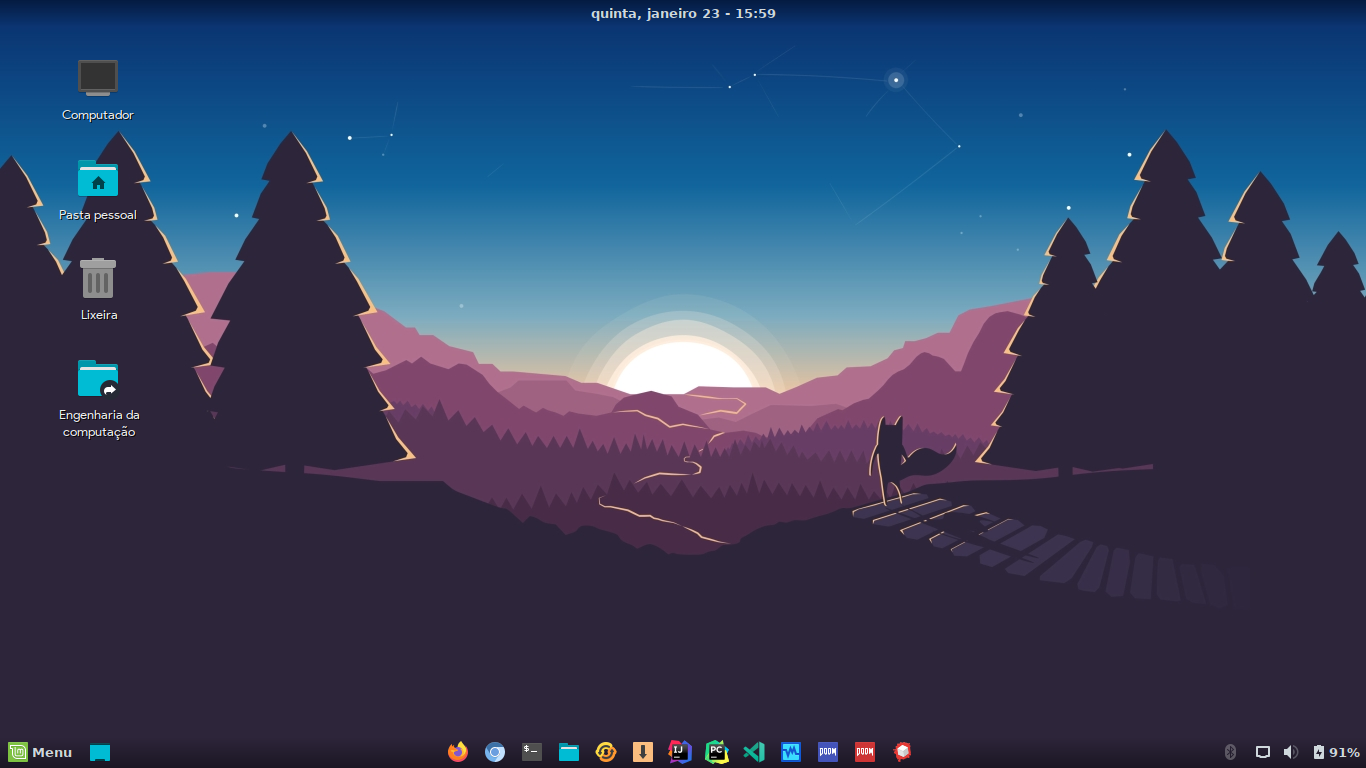
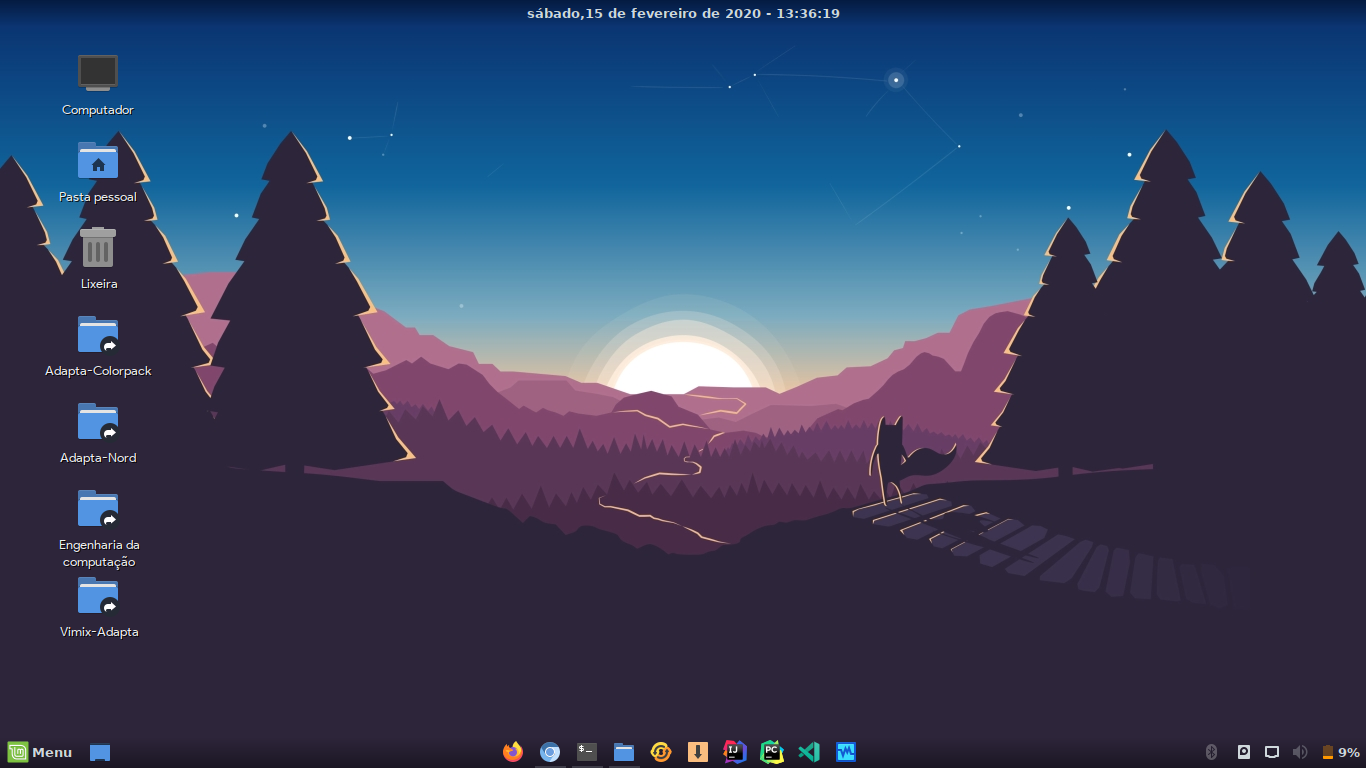
Mudanças no readme e novas fotos

diff --git a/README.md b/README.md
@@ -2,13 +2,15 @@
 
 Modified version of <a href="https://github.com/ivankra/adapta-gtk-theme-colorpack">Adapta-gtk-theme-colorpack</a> created by <a href="https://github.com/ivankra">Ivankra</a>
 
-Indicator have been added to the panel that shows which apps are open, this option has been added in Cinnamon, and, corrected parts with dark colors in chromium, in light themes!
+News:
+
+    - Open app indicators have been added to the cinnamon dashboard
+    - The parts were corrected with dark chrome colors, in light themes, such as the close tab button and create a new tab
+    - Some icons of the gtk-2.0, gtk-3.0 and gtk-3.22 interfaces are with selection colors according to the theme
 
 Soon, I finish the other versions of the theme, in this case, the other colors!
 
 This version not have the Eta version!
-
-For users that not use use metacity WM, use the original Adapta window buttons, it was not possible to harmonize with the design of the metacity window buttons on gtk-3.0 and gtk-3.22!
 
 Available colors (in light and nokto versions):
 
